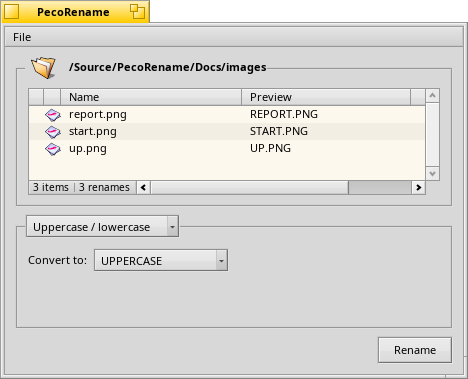
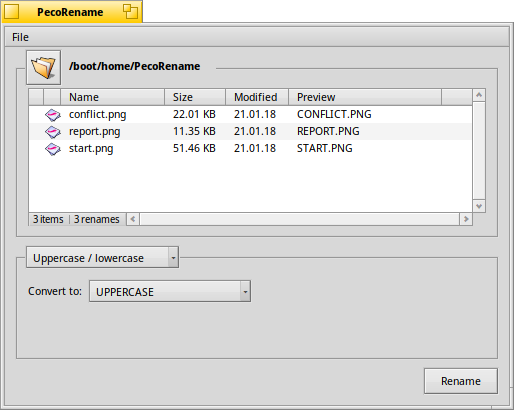
Updated documentation
* Updated screenshots
* Added "Random symbols" renamer
* Fixed "Click for next screenshot"

Changed region(s): [[0.0, 0.0, 1.0, 0.9868], [0.0, 0.9868, 0.9872, 1.0]]

diff --git a/Docs/ReadMe.html b/Docs/ReadMe.html
@@ -155,15 +155,18 @@ pre.terminal {			/* Terminal output*/
 var switchImage = function(image)
 {
 var pathname = image.src
-var leafname= pathname.split('\\').pop().split('/').pop();
+var leafname = pathname.split('\\').pop().split('/').pop();
 
 	if (leafname == "renamer_search-replace.png") {
         image.src = "./images/en/renamer_insert-overwrite-1.png";
         image.alt = "Rename mode 'Insert / overwrite' - inserting";
-    } else if (leafname == "renamer_insert-replace-1.png") {
-        image.src = "./images/en/renamer_insert-replace-2.png";
+    } else if (leafname == "renamer_insert-overwrite-1.png") {
+        image.src = "./images/en/renamer_insert-overwrite-2.png";
         image.alt = "Rename mode 'Insert / overwrite' - overwriting";
     } else if (leafname == "renamer_insert-overwrite-2.png") {
+        image.src = "./images/en/renamer_random-symbols.png";
+        image.alt = "Rename mode 'Random symbols'";
+    } else if (leafname == "renamer_random-symbols.png") {
         image.src = "./images/en/renamer_remove.png";
         image.alt = "Rename mode 'Remove'";
     } else if (leafname == "renamer_remove.png") {
@@ -253,7 +256,7 @@ There may already exist files with the same names as the targeted new file names
 <h2>
 <a href="#"><img src="./images/up.png" style="border:none;float:right" alt="index" /></a>
 <a id="settings" name="modes">Renaming Modes</a></h2>
-<p>The renaming modes are all pretty much self-explanatory. But see further down for some background on the <span class="menu">Add&nbsp;file&nbsp;extension</span> mode.</p>
+<p>The renaming modes are all pretty much self-explanatory. But see further down for some background on the <span class="menu">Random symbols</span> and <span class="menu">Add&nbsp;file&nbsp;extension</span> modes.</p>
 <p>Basically, you construct your pattern like you would read a sentence, choosing options and entering text for the variables that define the new file names. The preview always shows if you're still on the right track.</p>
 <p>Click on the screenshot below, to click through examples for every renaming mode.</p>
 
@@ -267,11 +270,17 @@ There may already exist files with the same names as the targeted new file names
 You won't be able to click on the screenshot to see these examples:<br />
 <a href="./images/en/renamer_insert-overwrite-1.png">Insert</a> ‒ 
 <a href="./images/en/renamer_insert-overwrite-2.png">Overwrite</a> ‒
+<a href="./images/en/renamer_remove.png">Random symbols</a> ‒ 
 <a href="./images/en/renamer_remove.png">Remove</a> ‒ 
 <a href="./images/en/renamer_numbering.png">Numbering</a> ‒ 
 <a href="./images/en/renamer_extension.png">Add&nbsp;file&nbsp;extension</a> ‒ 
 <a href="./images/en/renamer_upper.png">Uppercase/lowercase</a></noscript>
 </div>
+
+<h3>Random symbols</h3>
+
+<p>You can insert or overwrite with a number of random symbols. The checkmarks define what kind of symbols are used: <span class="menu">Upper/Lower case</span>, <span class="menu">Numbers</span>, <span class="menu">Symbols</span> (<tt>!@#$%^&amp;*</tt>).<br />
+<span class="menu">Custom</span> lets you define your own set of symbols. For example, you could disable all other checkboxes and enter "1234" in the text field, and the inserted characters will only be a randomized selection of those four numbers.</p>
 
 <h3>Add file extension</h3>
 
@@ -322,6 +331,23 @@ Thanks to everyone contributing code, translations and feedback.</p>
 <h2>
 <a href="#"><img src="./images/up.png" style="border:none;float:right" alt="index" /></a>
 <a id="history" name="history">History</a></h2>
+
+<p><b>2.1</b> - <i>2023-10-26:</i></p>
+<ul>
+<li>Add "Random symbols" renamer</li>
+<li>Added/updated translations</li>
+</ul>
+
+<p><b>2.0.3</b> - <i>2018-08-18:</i></p>
+<ul>
+<li>Fix crash</li>
+<li>Added/updated translations</li>
+</ul>
+
+<p><b>2.0.2</b> - <i>2018-08-18:</i></p>
+<ul>
+<li>Added/updated translations</li>
+</ul>
 
 <p><b>2.0.1</b> - <i>2018-08-18:</i></p>
 <ul>
